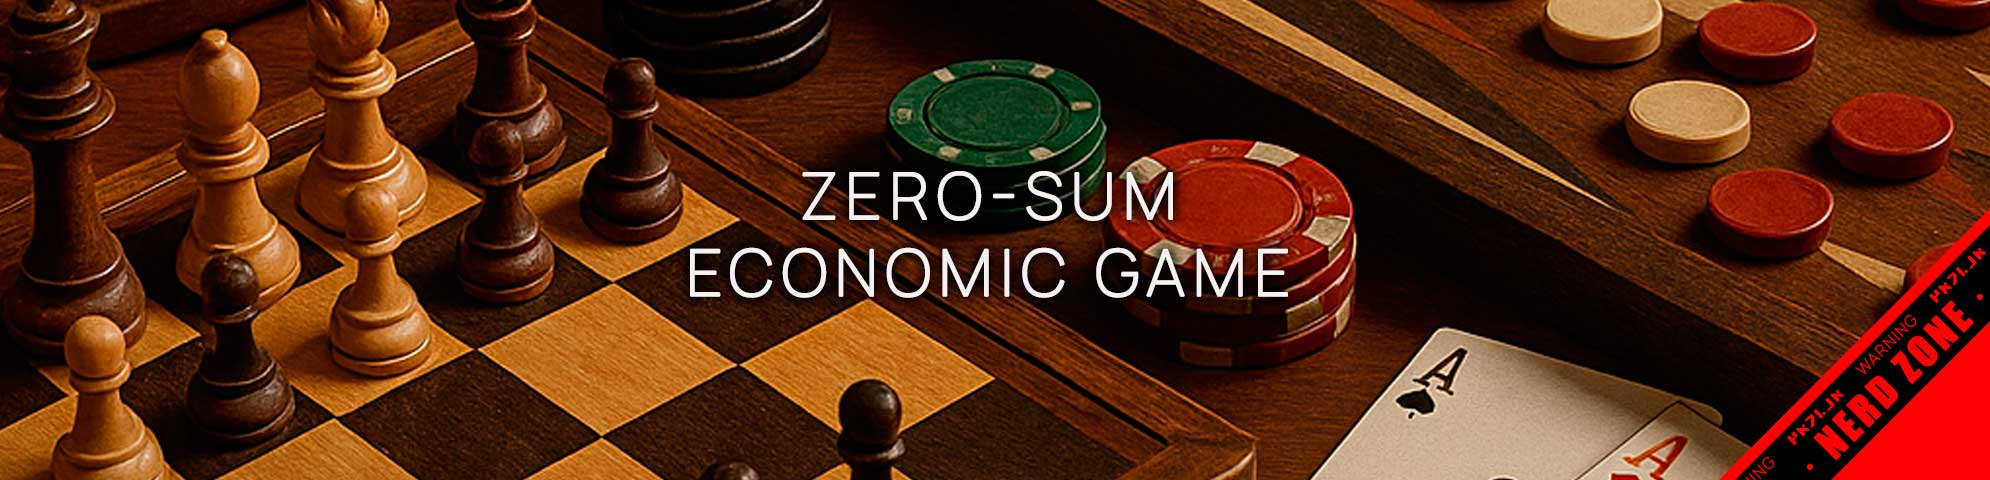
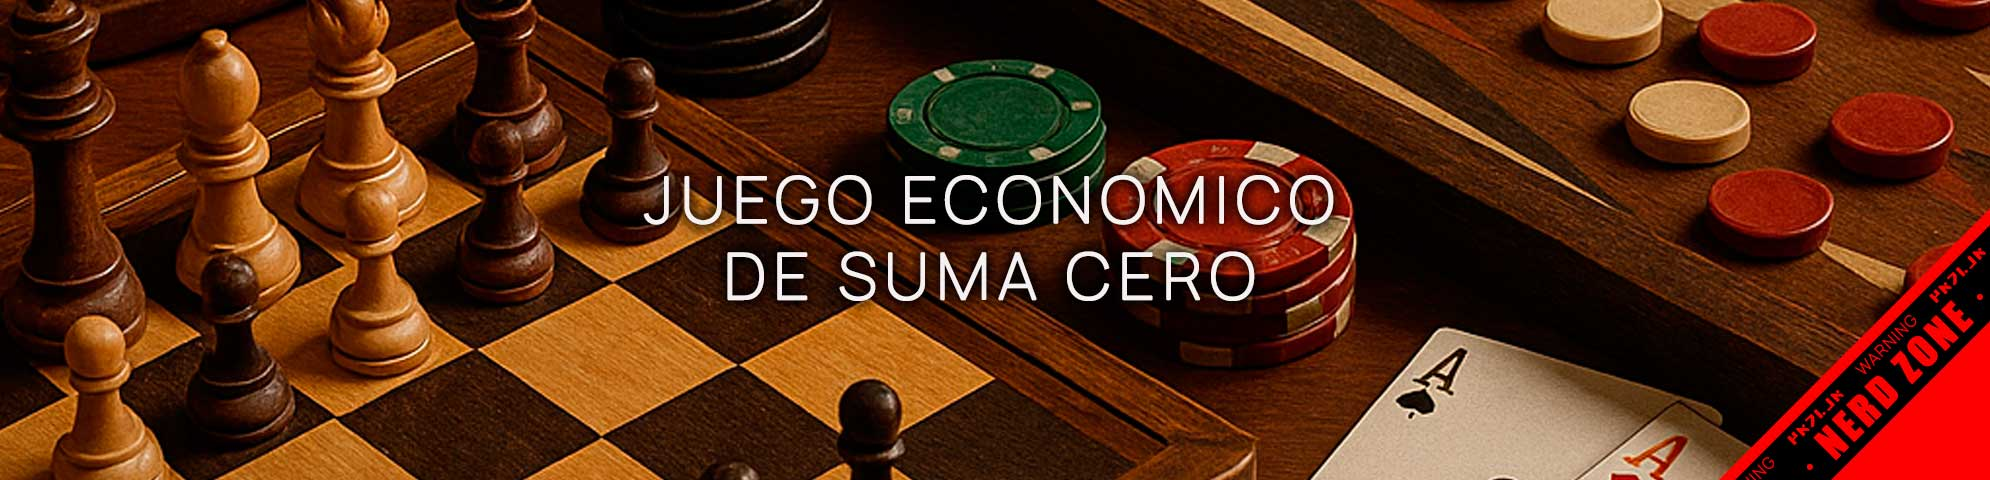
GITBOOK-169: No subject

Changed region(s): [[0.3116, 0.3438, 0.6854, 0.6562]]

diff --git a/whitepaper-es/technologies/gameplay/zero-sum.md b/whitepaper-es/technologies/gameplay/zero-sum.md
@@ -1,5 +1,5 @@
 ---
-cover: ../../.gitbook/assets/tcw-wip-banner.jpg
+cover: ../../.gitbook/assets/tcw-theory-zero.jpg
 coverY: 0
 layout:
   width: default
@@ -7,9 +7,9 @@ layout:
     visible: true
     size: full
   title:
-    visible: true
+    visible: false
   description:
-    visible: true
+    visible: false
   tableOfContents:
     visible: true
   outline:
